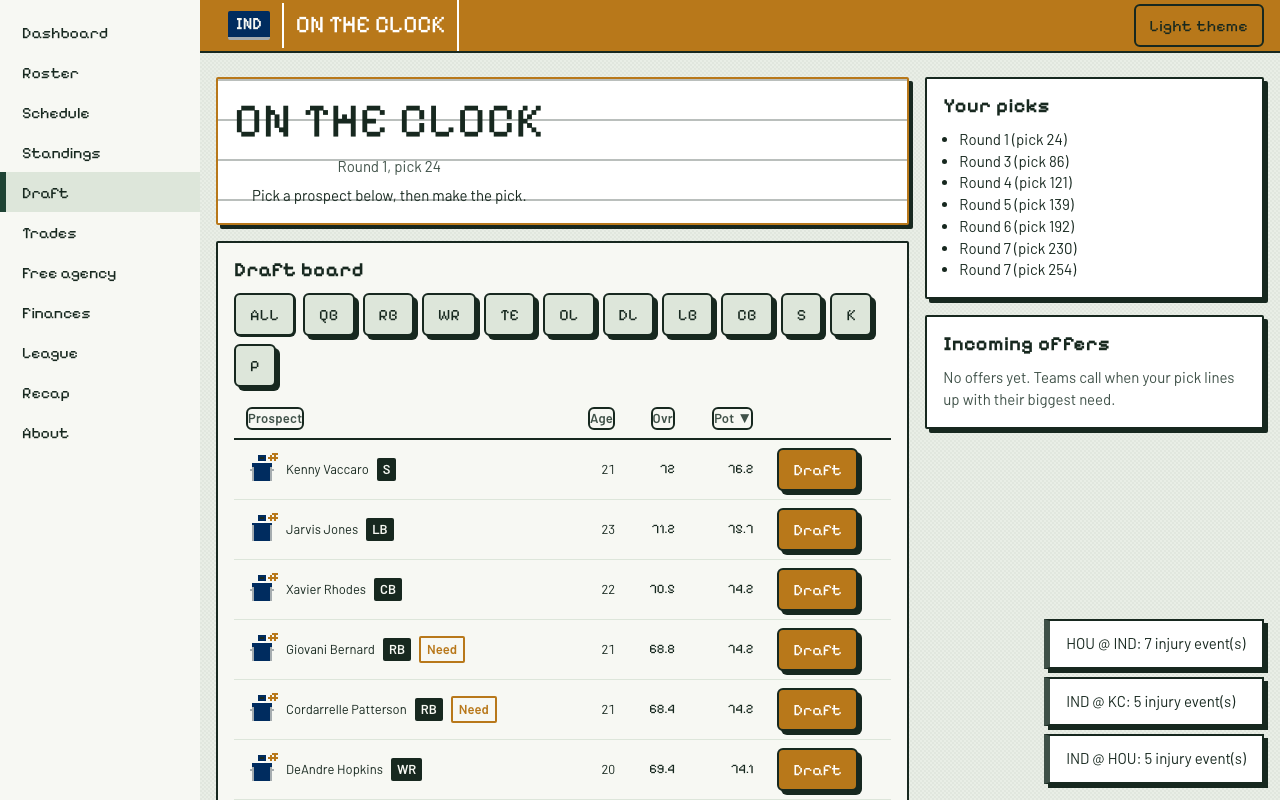
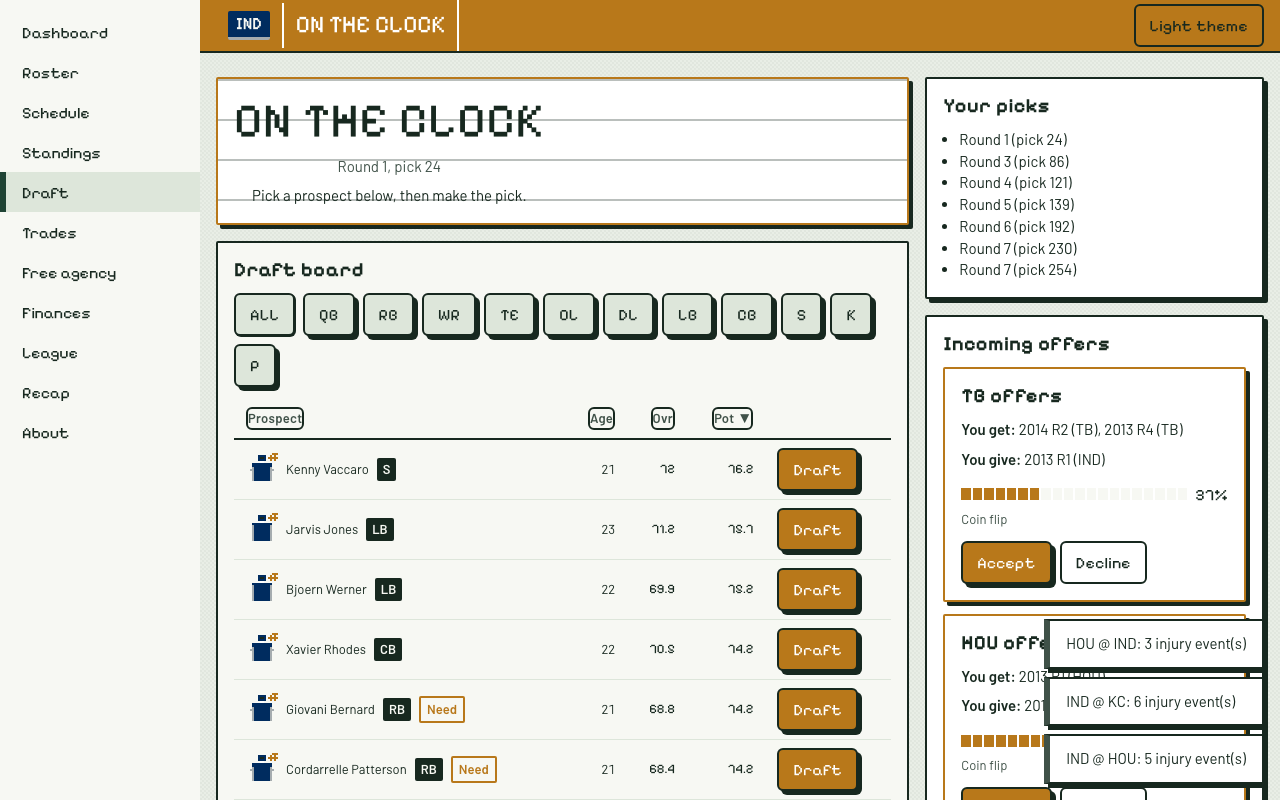
docs: Phase 6 decisions, changelog, playthrough screenshots, version 1.0.0
Claude-Session: https://claude.ai/code/session_01F9dHTZAyXQxncCZMLmVkU3

diff --git a/docs/DECISIONS.md b/docs/DECISIONS.md
@@ -112,3 +112,23 @@ re-opened here; this log records the choices made while building within them.
 - The scripted GM past the data signs 13–23 multi-year free agents and cuts some, leaving SEA with $56–63M dead in 2026–27; a human would not, but it flags that cut/re-sign churn is profitable on real contracts priced far above the synthesized curve after a season of progression.
 - `futurePickDiscount` below 1.0 is still free money for a patient user (77 chart points a season at 0.92).
 - Season Recap bracket connectors; ratings model still reading the frozen contracts CSV; 2016+ practice-squad players in the pool.
+
+## 2026-09-18 — Phase 6 (ship)
+
+- **The salary regression from 5D.** The frozen contracts CSV carried APY in dollars; the parquet that replaced it carries millions. `_contract_hint` kept dividing by 1e6, so every exported salary rounded to 0.0 and the engine synthesized every contract in the game — the 5D "missing APY" counts were counting `years` hints, not salaries. `_apy_millions` now tells the unit apart by magnitude (no NFL salary is under $1,000 or over $1,000M a year), with a pipeline test for both inputs. After the rebuild 2010 carries a real salary on 628 of 1,696 roster slots, 2015 on 1,404 and 2023 on 1,672; league payroll at a fresh start is 89–92 % of the cap (2012/2015/2019/2023; was 73–77 %), which closes the payroll follow-up without touching `valueExp` or `fitPayrollToCap`.
+- **Cap fallback for pre-table seasons.** `capFor` returned the *latest* cap (2025's $279M) for any season before the table, so a 2007 or 2009 first-rounder on a 2010 roster was priced off a $279M cap: Calvin Johnson $26.7M, Matthew Stafford $27.9M. Seasons before the first table year now use the first year's cap.
+- **Rookie scale by era.** `rookieScale.topPct` 0.10 matched the pre-2011 scale (Bradford ≈10 % of cap) but doubled every post-CBA first-rounder (Andrew Luck $12.1M). The top is 0.047 from `cbaSeason` 2011 on; the decay is unchanged.
+- **AI teams never fall below the floor.** With real salaries past the data an AI team can sit at the cap with 45 players; `fillAiRosters` refused league-minimum bodies once `payroll + min > cap` and validation threw (`MIA: roster has 45 players; minimum is 46`, SEA 2023 × 5). The filler now reaches 46 with minimum deals regardless of the cap, `runAiCutdowns` runs after it, and a new swap pass releases the most expensive cuttable veteran whose release actually saves room and signs a minimum body until the team is under the cap. Regression test in `tests/engine/fa/fa.test.ts`. Headless IND 2012 × 6 and SEA 2023 × 5 pass.
+- **Counters were never shown, not never made.** `scripts/qa/counterTrace.ts`: of 283 declined one-for-one deals with p < 0.5 inside the shortfall cap (2015, 16 teams), the AI countered 239 (84 %). The Phase 5 zero came from a harness that only submitted deals at p ≥ 0.5 (no shortfall, no counter owed) and a lowball probe past the 60 % cap. The store then discarded `outcome.counter`; counters now land in the Trade Center's incoming offers with a toast, and accepting one goes through the existing AI-offer path.
+- **No re-rolling a coin flip.** The Trade Center seeded the accept roll from a random proposal id, so the same package could be offered until it landed (four straight declines at 53–55 % in the playthrough, then a fifth try). The roll is now seeded from the package (teams, players, picks) plus season and week: the same deal gets the same answer until the user sweetens it or a week passes.
+- **Calibration harness applies injuries.** `runSeason` simulates week by week and runs `lifecycle.applyInjuryEvents` + `tickInjuries` between weeks like `league.simWeek`. 2015: sd(wins) 3.09 → 3.07, corr with real wins 0.86 unchanged — injuries add per-season noise, not spread between teams.
+- **Awards.** `summarizeSeason` fills `awards` with the season's statistical leaders from the regular-season box scores (passing, rushing, receiving yards; touchdowns; sacks; interceptions) — visible stats only.
+- **QA playthrough (IND, 2010, three seasons).** Traded a sixth, three sevenths and a bench receiver for a rookie Antonio Brown at 64 %; 13-3 and a wild-card loss in 2010; 1-15 in 2011 with Manning's lost season in the trajectory (the real Colts went 2-14); drafted Andrew Luck at 1 and Russell Wilson at 34 in 2012, went 5-11 after cutting Freeney and Donald Brown to get under the cap. Everything a §1 GM does — trade, re-sign, draft, cut down, sim — works and saves across reloads. The preseason cutdown is the rough edge: 11–13 releases by hand each year with no "cut to 53" helper (v2). The expiring-contracts alert now points at Free agency, where re-signing lives.
+- **Pages.** The repo is private and this GitHub plan does not serve Pages for private repos (`POST /pages` → 422; the first deploy run failed with 404 at `deploy-pages`). The workflow is correct and will deploy on the next CI success once the repo is public. Verifying the live URL is the one Phase 6 step left open for Daniel.
+
+### Known follow-ups (v2)
+- A "cut to 53 / get under the cap" helper for the user's preseason; today it is one release per click.
+- Dead money past the data: the scripted GM leaves SEA with $58–65M dead in 2026–27 now that real salaries fill the cap. A human GM would not churn like that, but the cost of cutting real deals is real.
+- `futurePickDiscount` 0.92 is still 77 free chart points a season for a patient user.
+- Season Recap bracket connectors (DESIGN.md §11); ratings model still reads the frozen contracts CSV for `apy_cap_pct`; 2016+ practice-squad-only players in the FA pool; comp picks past the data.
+- Awards are leaders only — no MVP or Coach of the Year, which would need a team-context model.

diff --git a/CHANGELOG.md b/CHANGELOG.md
@@ -1,0 +1,41 @@
+# Changelog
+
+All notable changes to Gridiron GM. Dates are build dates; the project was built in six phases on 2026-09-17/18
+(see `docs/HANDOFF.md` for the plan and `docs/DECISIONS.md` for what was decided along the way).
+
+## 1.0.0 — 2026-09-18
+
+First complete release: a browser NFL general-manager sim with a hindsight twist. Start in any season 2010–2025
+with any team and a 1–10 season horizon; the league knows only the consensus of its time, the sim knows what
+really happened.
+
+### Added
+- Season awards on the recap: passing, rushing and receiving leaders, touchdowns, sacks and interceptions,
+  computed from the season's box scores.
+- Trade counters. When the AI declines but one more asset would close the gap, its counter appears under
+  incoming offers and can be accepted from there.
+- Playthrough screenshots (dashboard, trade, recap, report card) in the README.
+
+### Fixed
+- Real salaries were missing from every season (a dollars-vs-millions unit slip when the contracts source
+  moved to the daily parquet); rosters now carry recorded salaries where nflverse has them and league payroll
+  sits at 89–92 % of the cap instead of 73–77 %.
+- Players drafted before 2010 were priced off the 2025 cap; the cap lookup now uses the earliest known cap for
+  seasons before the table.
+- Post-2011 rookie deals were about twice the real scale; the top of the scale is era-aware.
+- AI teams at the cap past the data could end the preseason under the 46-man minimum; they now reach the
+  floor with minimum deals and swap salary out until legal.
+- The same trade package could be re-offered until a coin flip landed; the roll is now seeded by the package.
+- The calibration harness now applies injuries between weeks like the season loop does.
+- The expiring-contracts alert pointed at Finances; re-signing lives in Free agency.
+
+### Balance (Phase 5)
+- Game-strength scale, injury rate, overtime and one-point windows, future-pick discount, free-agent
+  acceptance curve and rookie guarantees tuned against 2012–2023 seasons; calibration inside the §6.3 bands.
+
+## 0.5.0-alpha — 2026-09-18
+
+- All screens (dashboard, roster, schedule, standings, draft room, trade center, free agency, league browser,
+  player card, about) on the retro design system; engine modules for league, sim, draft, trade, free agency,
+  lifecycle and history; the data pipeline over nflverse; IndexedDB saves; CI with typecheck, unit tests,
+  truth-isolation lint and the six-season headless run.

diff --git a/README.md b/README.md
@@ -106,8 +106,14 @@ See `docs/HANDOFF.md` §8 for the full list and the v2 backlog.
 
 ## Screenshots
 
+From the Phase 6 QA playthrough (IND, 2010 start, three-season horizon):
+
+![Dashboard](docs/screenshots/dashboard.png)
+![Trade Center — a sixth-round pick and a bench receiver for a rookie Antonio Brown](docs/screenshots/trade-center-2010.png)
 ![Draft room](docs/screenshots/draft-room.png)
 ![Trade Center](docs/screenshots/trade-center.png)
+![Season recap](docs/screenshots/season-recap.png)
+![End game report card](docs/screenshots/end-game.png)
 
 ## Repository
 
